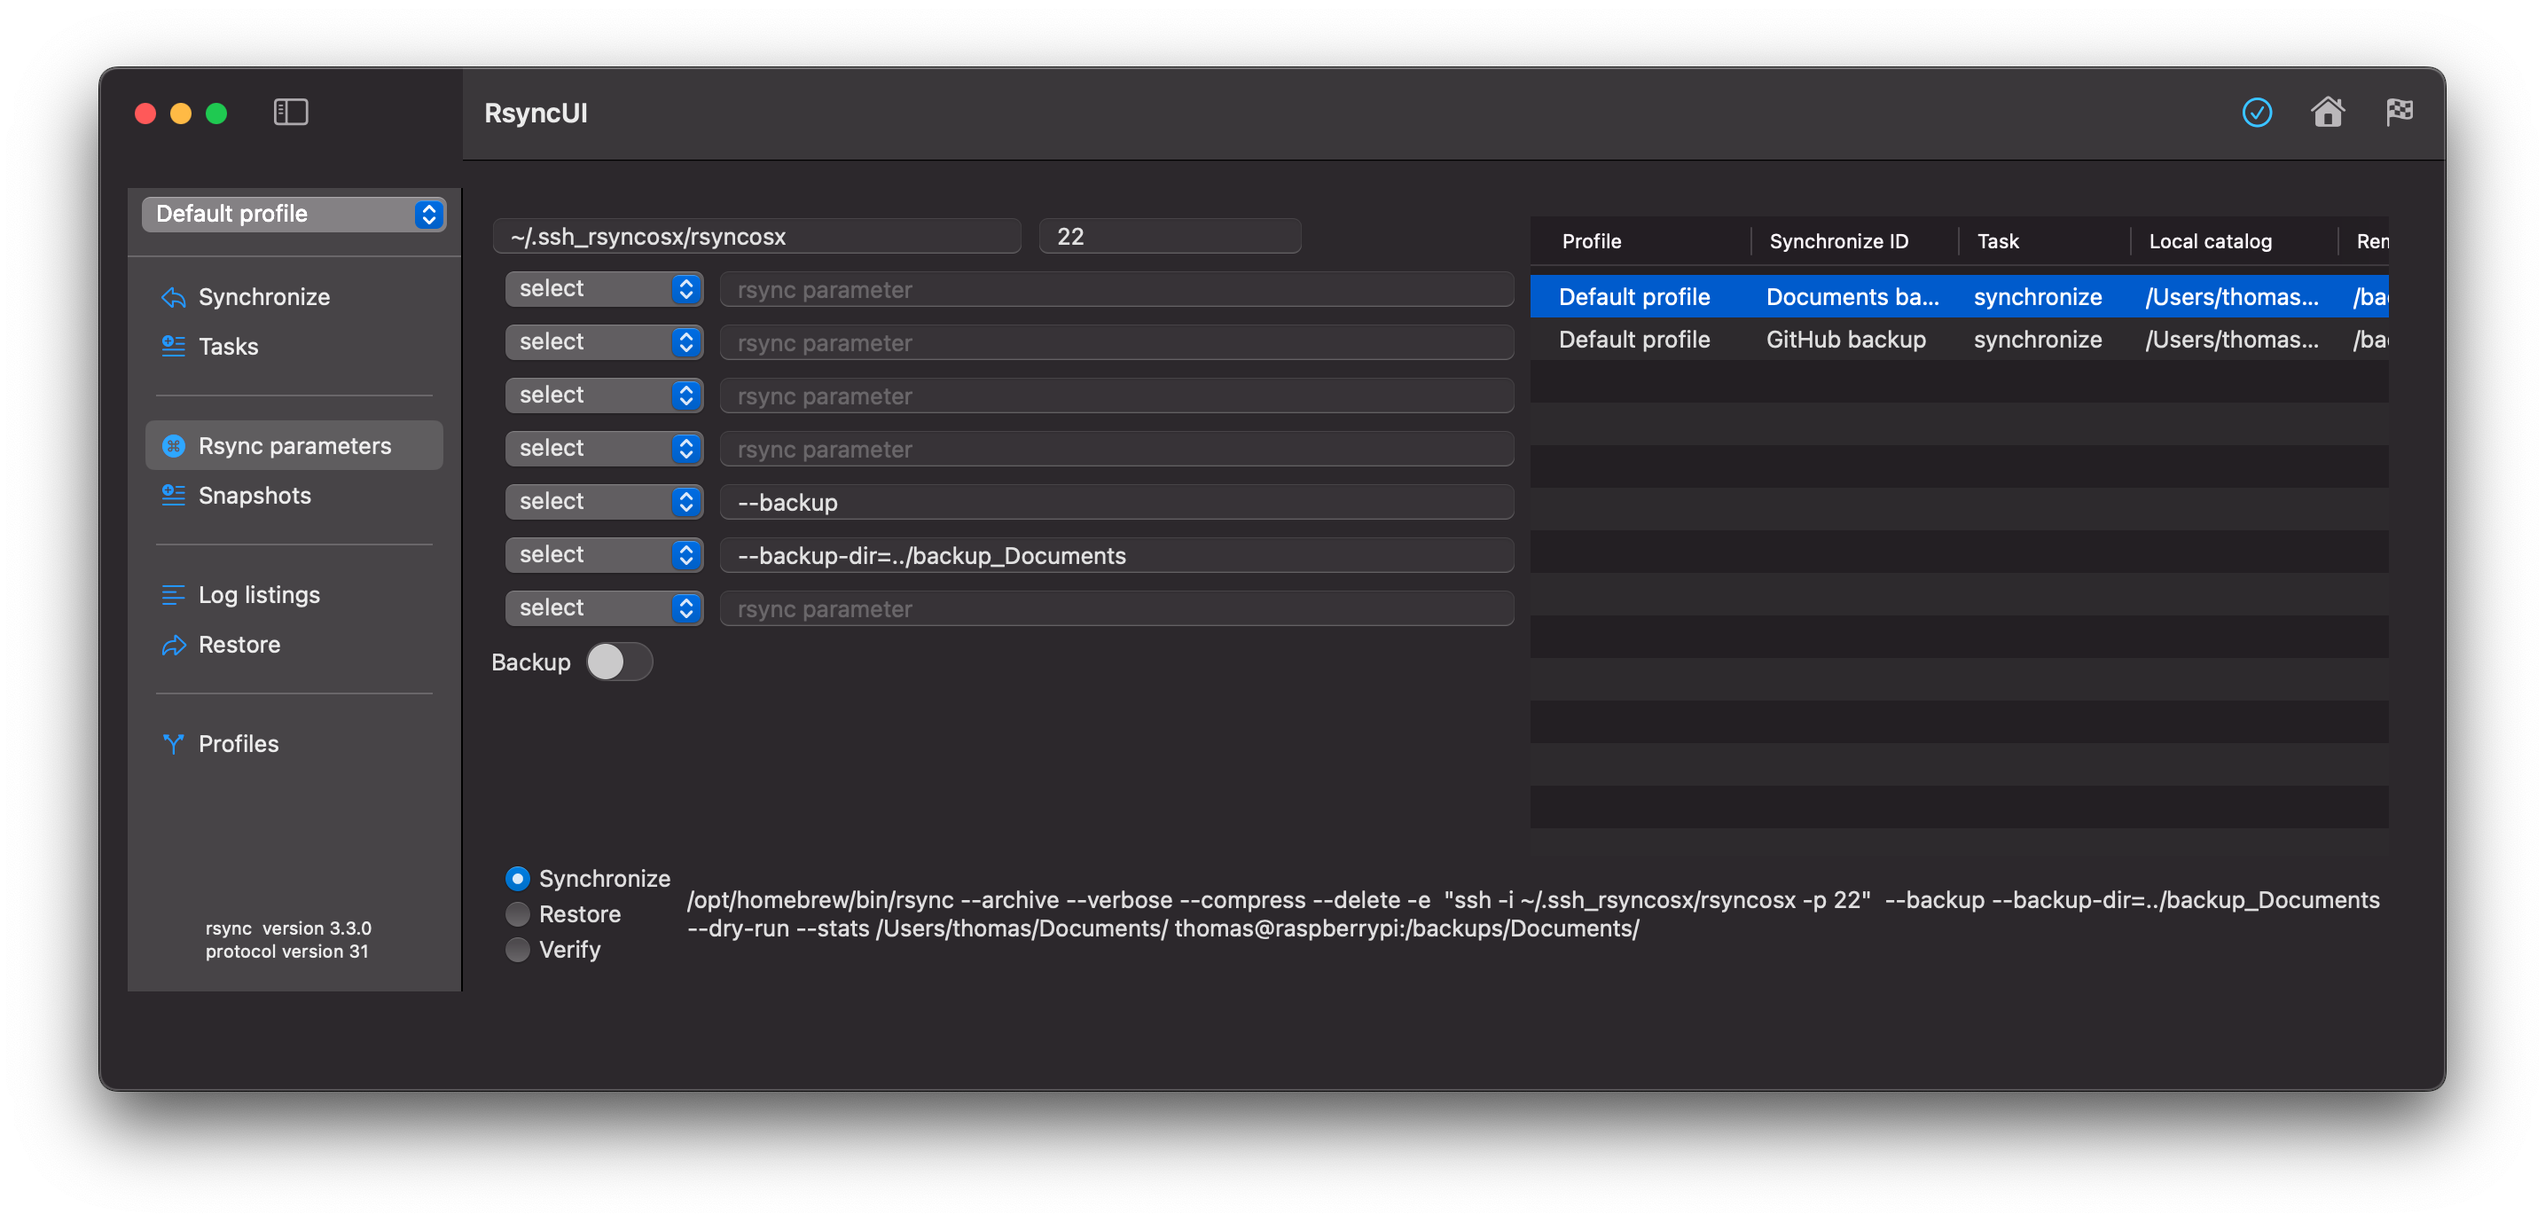
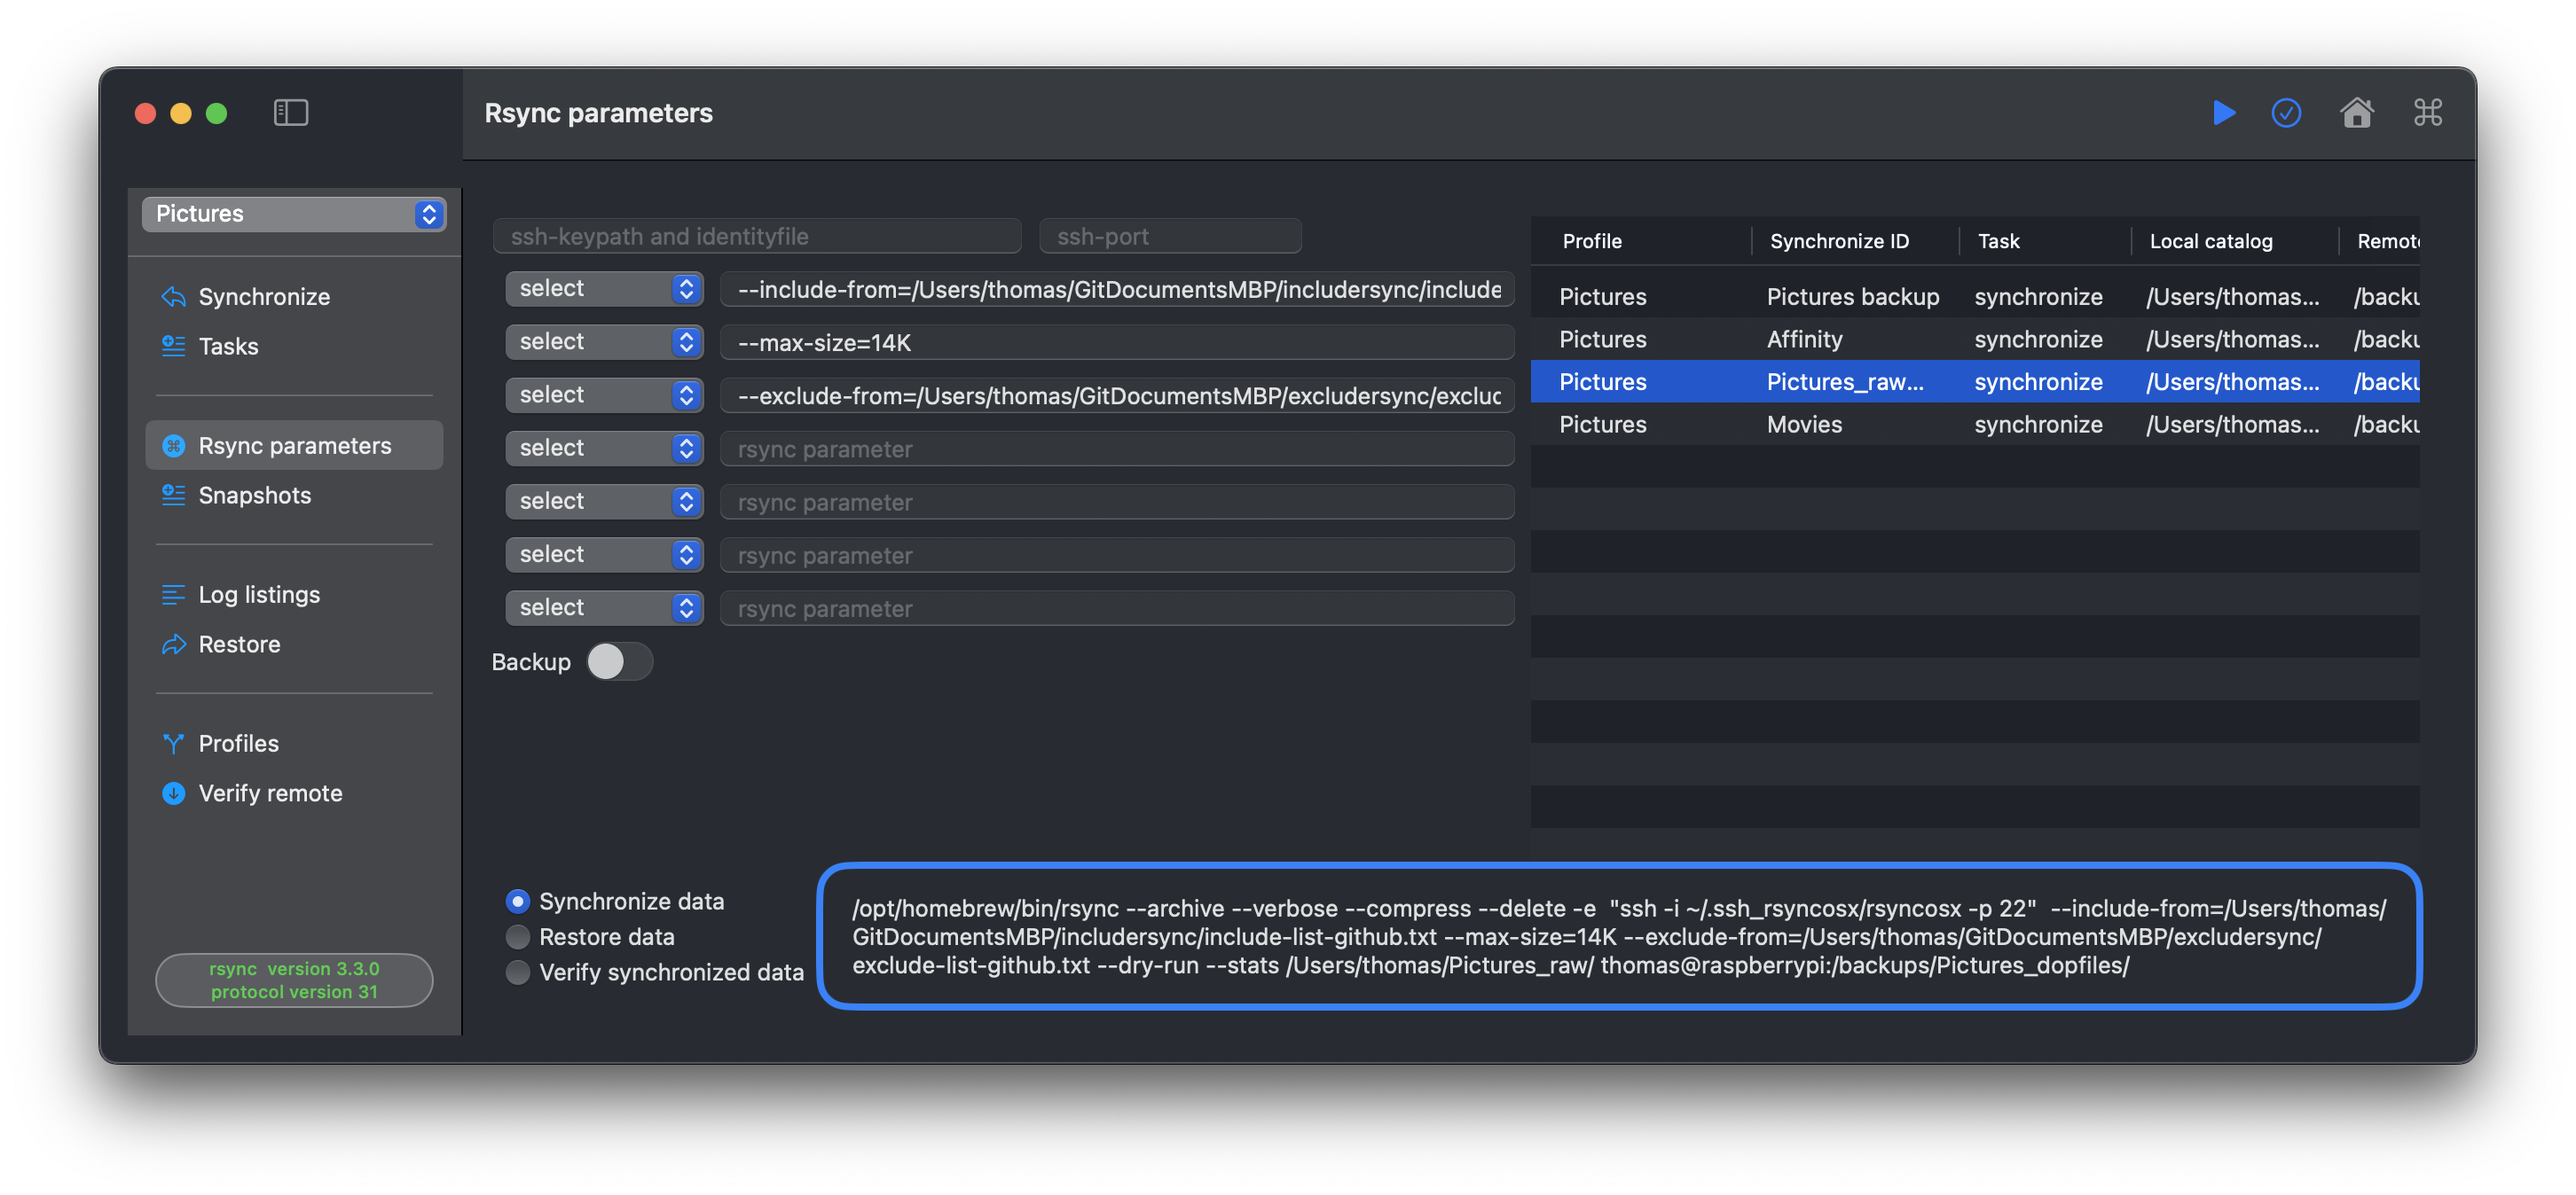
update

diff --git a/content/en/docs/_index.md b/content/en/docs/_index.md
@@ -44,9 +44,9 @@ If you have *not* enabled passwordless login, there are some more actions requir
 
 ### New tasks, verify task and synchronizing data
 
-After  [adding](/docs/addconfigurations/) a task, in the main view,  *a double click* on the task executes a `--dry-run` and the second double click executes the real run.
-A verification of a new task might also be executed by opening the *Tasks* or *Rsync parameters* view from the main sidebar, select the task and choose the `Checker flag` on
-the toolbar. Press the `Checker flag` executes an estimation run, a `--dry-run` to verify the task.
+After  [adding](/docs/addconfigurations/) a task, in the main view,  *a double click* on the task executes a `--dry-run` and the second double click
+executes the real run. A verification of a new task might also be executed by opening the *Tasks* or *Rsync parameters* view from the main sidebar,
+select the task and choose the `play` icon on the toolbar. The `play`icon executes an estimation run, a `--dry-run` to verify the task.
 
 For more experienced users of rsync, from within the Rsync parameters view, select the new task. Copy and paste the *synchronization* string into a terminal view.
 The rsync command includes the `--dry-run` parameter as default within this view.

diff --git a/content/en/docs/AddConfigurations.md b/content/en/docs/AddConfigurations.md
@@ -8,7 +8,8 @@ categories = ["synchronize"]
 {{< alert color="warning" >}}
 
 Always verify, by `--dry-run` which is an estimation run,  the result of a new task before executing it.
-After adding the task, in the *Add and update task* view, select the task and then select the `checker flag` for an estimation run.
+After adding the task, in the *Add and update task* view, select the task and then the `play` icon on the toolbar,
+for an estimation run.
 
 {{< /alert >}}
 
